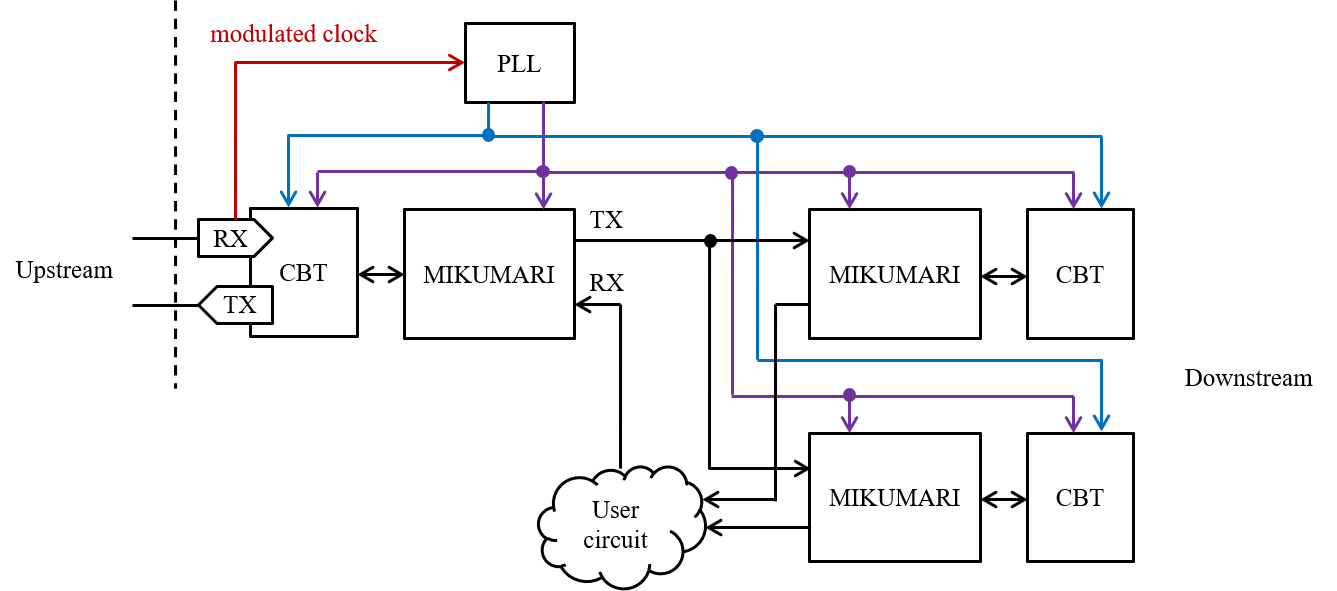
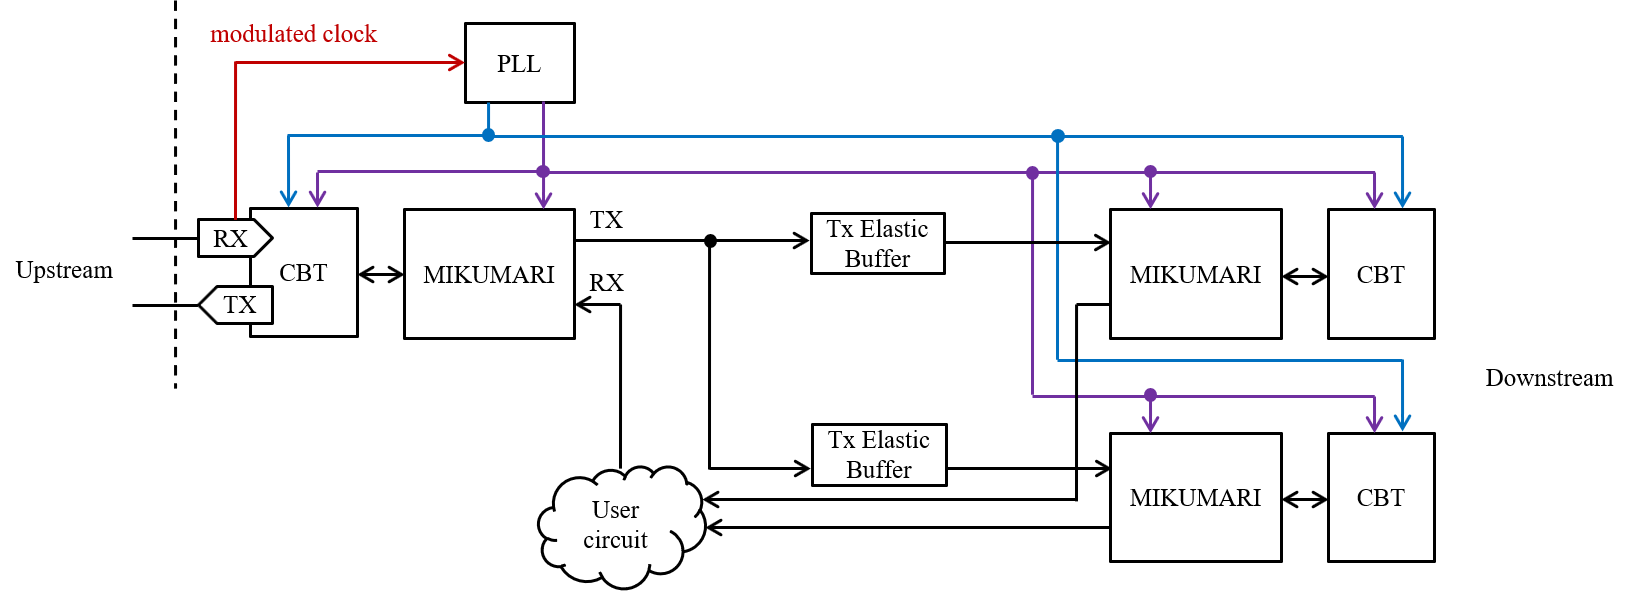
Add NestDAQ protocol.

diff --git a/docs/mikumari/main.md b/docs/mikumari/main.md
@@ -12,7 +12,7 @@ In the slave side, these clock signals are reproduced from the modulated clock s
 
 ![MIKUMARI-MIN-CONFIG](mikumari-min-config.png "The minimum configuration of the MIKUMARI system."){: #MIKUMARI-MIN-CONFIG width="95%"}
 
-Since the MIKUMARI system aims to distribute the reference clock to synchronize FEEs, the connection topology of the MIKUMARI link should be a tree structure starting from a master module. If the master module cannot drive all FEEs, a fan-out module is necessary in intermediate layers. An example of fan-out is shown in the [figure](#MIKUMARI-FANOUT). As the CBT and the MIKUMARI link are defined as the full-duplex transceiver and the link protocol for point-to-point communication, respectively, a simple signal fan-out is not allowed. In fan-out module, the clock signals are once recovered and drive the CBTs transferring the modulated clock signal to downstream modules. In many applications, all FEEs will receive the same command from the master module, and then TX data can be broadcasted, however, a user circuit summarizing information from the downstream modules will be necessary in the RX side. However, this is not mandatory. Since the TX and RX of the MIKUMARI link are independent, the RX port of the right side can be left open if you decide not to use the uplink data path.
+Since the MIKUMARI system aims to distribute the reference clock to synchronize FEEs, the connection topology of the MIKUMARI link should be a tree structure starting from a master module. If the master module cannot drive all FEEs, a fan-out module is necessary in intermediate layers. An example of fan-out is shown in the [figure](#MIKUMARI-FANOUT). As the CBT and the MIKUMARI link are defined as the full-duplex transceiver and the link protocol for point-to-point communication, respectively, a simple signal fan-out is not allowed. In fan-out module, the clock signals are once recovered and drive the CBTs transferring the modulated clock signal to downstream modules. In many applications, all FEEs will receive the same command from the master module, and then TX data can be broadcasted, however, a user circuit summarizing information from the downstream modules will be necessary in the RX side. However, this is not mandatory. Since the TX and RX of the MIKUMARI link are independent, the RX port of the right side can be left open if you decide not to use the uplink data path. Since the validOutRx and frameLastOutRx signals are one-shot, the RX port and the TX ports cannot be directly connected due to the txAck cycle. Therefore, the TxElasticBuffer is necessary to connect the RX and TX ports. The TxElasticBuffer is a simple queuing buffer for adjusting CBT character transfer cycle.
 
 ![MIKUMARI-FANOUT](mikumari-fanout.png "Example of fan-out."){: #MIKUMARI-FANOUT width="90%"}
 

diff --git a/docs/nestdaq_protocol/main.md b/docs/nestdaq_protocol/main.md
@@ -515,3 +515,14 @@ The received pulse and command appear from ndpPulseOut and ndpCommandOut. For ex
 
 The status flag vector is connected to the ndpFlagIn port. If status flag bit pattern is changed, the frame transmission is automatically generated by NdpSlave.
 
+## Fan-out
+
+Since the CBT character transfer cycle is hidden by the NestDAQ protocol, the NDP master and slave modules can be directly connected. **Note that this is not confirmed yet and is just my expectation.** Therefore, for fan-out, the NDP slave module can directly drive multiple NDP master modules in the intermediate (fan-oute) module.
+
+## Example design
+### ndp-master/ndp-slave
+
+The path to the example designs projects. The firmware structure is similar to those of mikumari-crv-master (slave). The NdpMaster and NdpSlave are instantiated instead of 8-bit incremental data generator.
+
+- AMANEQ-official/example-design/mikumari/ndp-crv-master
+- AMANEQ-official/example-design/mikumari/ndp-crv-slave

diff --git a/docs/index.md b/docs/index.md
@@ -2,9 +2,14 @@
 
 ## Update history
 
-**2020.10.26**
+**2022.11.7**
 
-* hogehoge
+* Add description for CBT and MIKUMARI link.
+
+**2022.11.14**
+
+* Add description for NestDAQ protocol.
+* Modify the description about fan-out for the MIKUMARI link.
 
 ## Module overview
 
